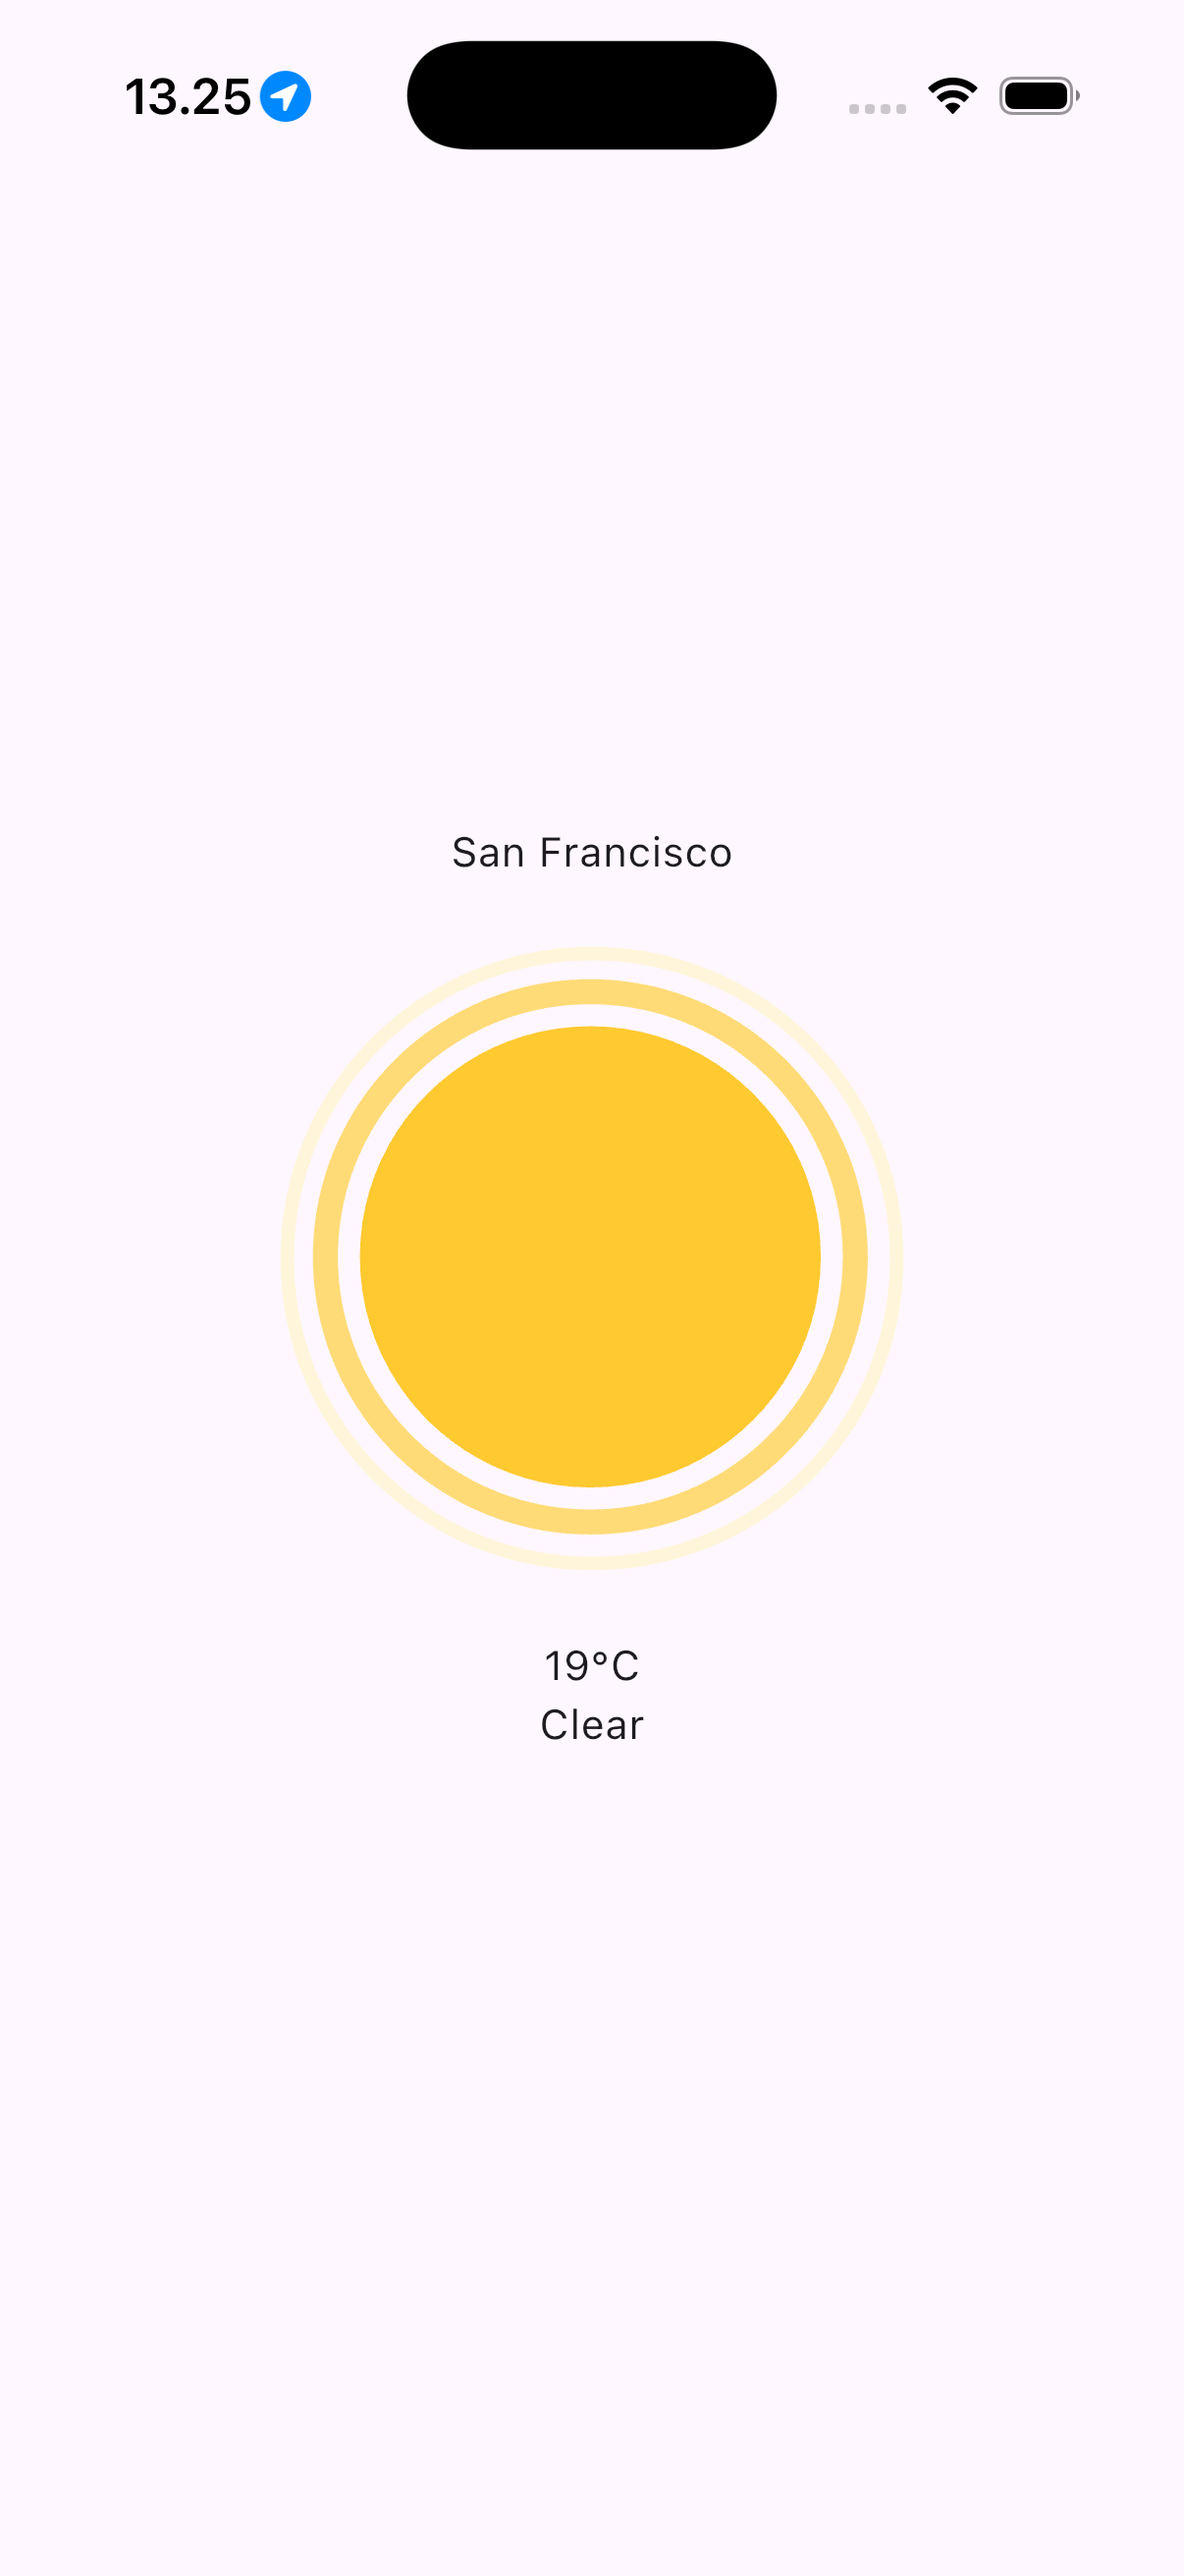
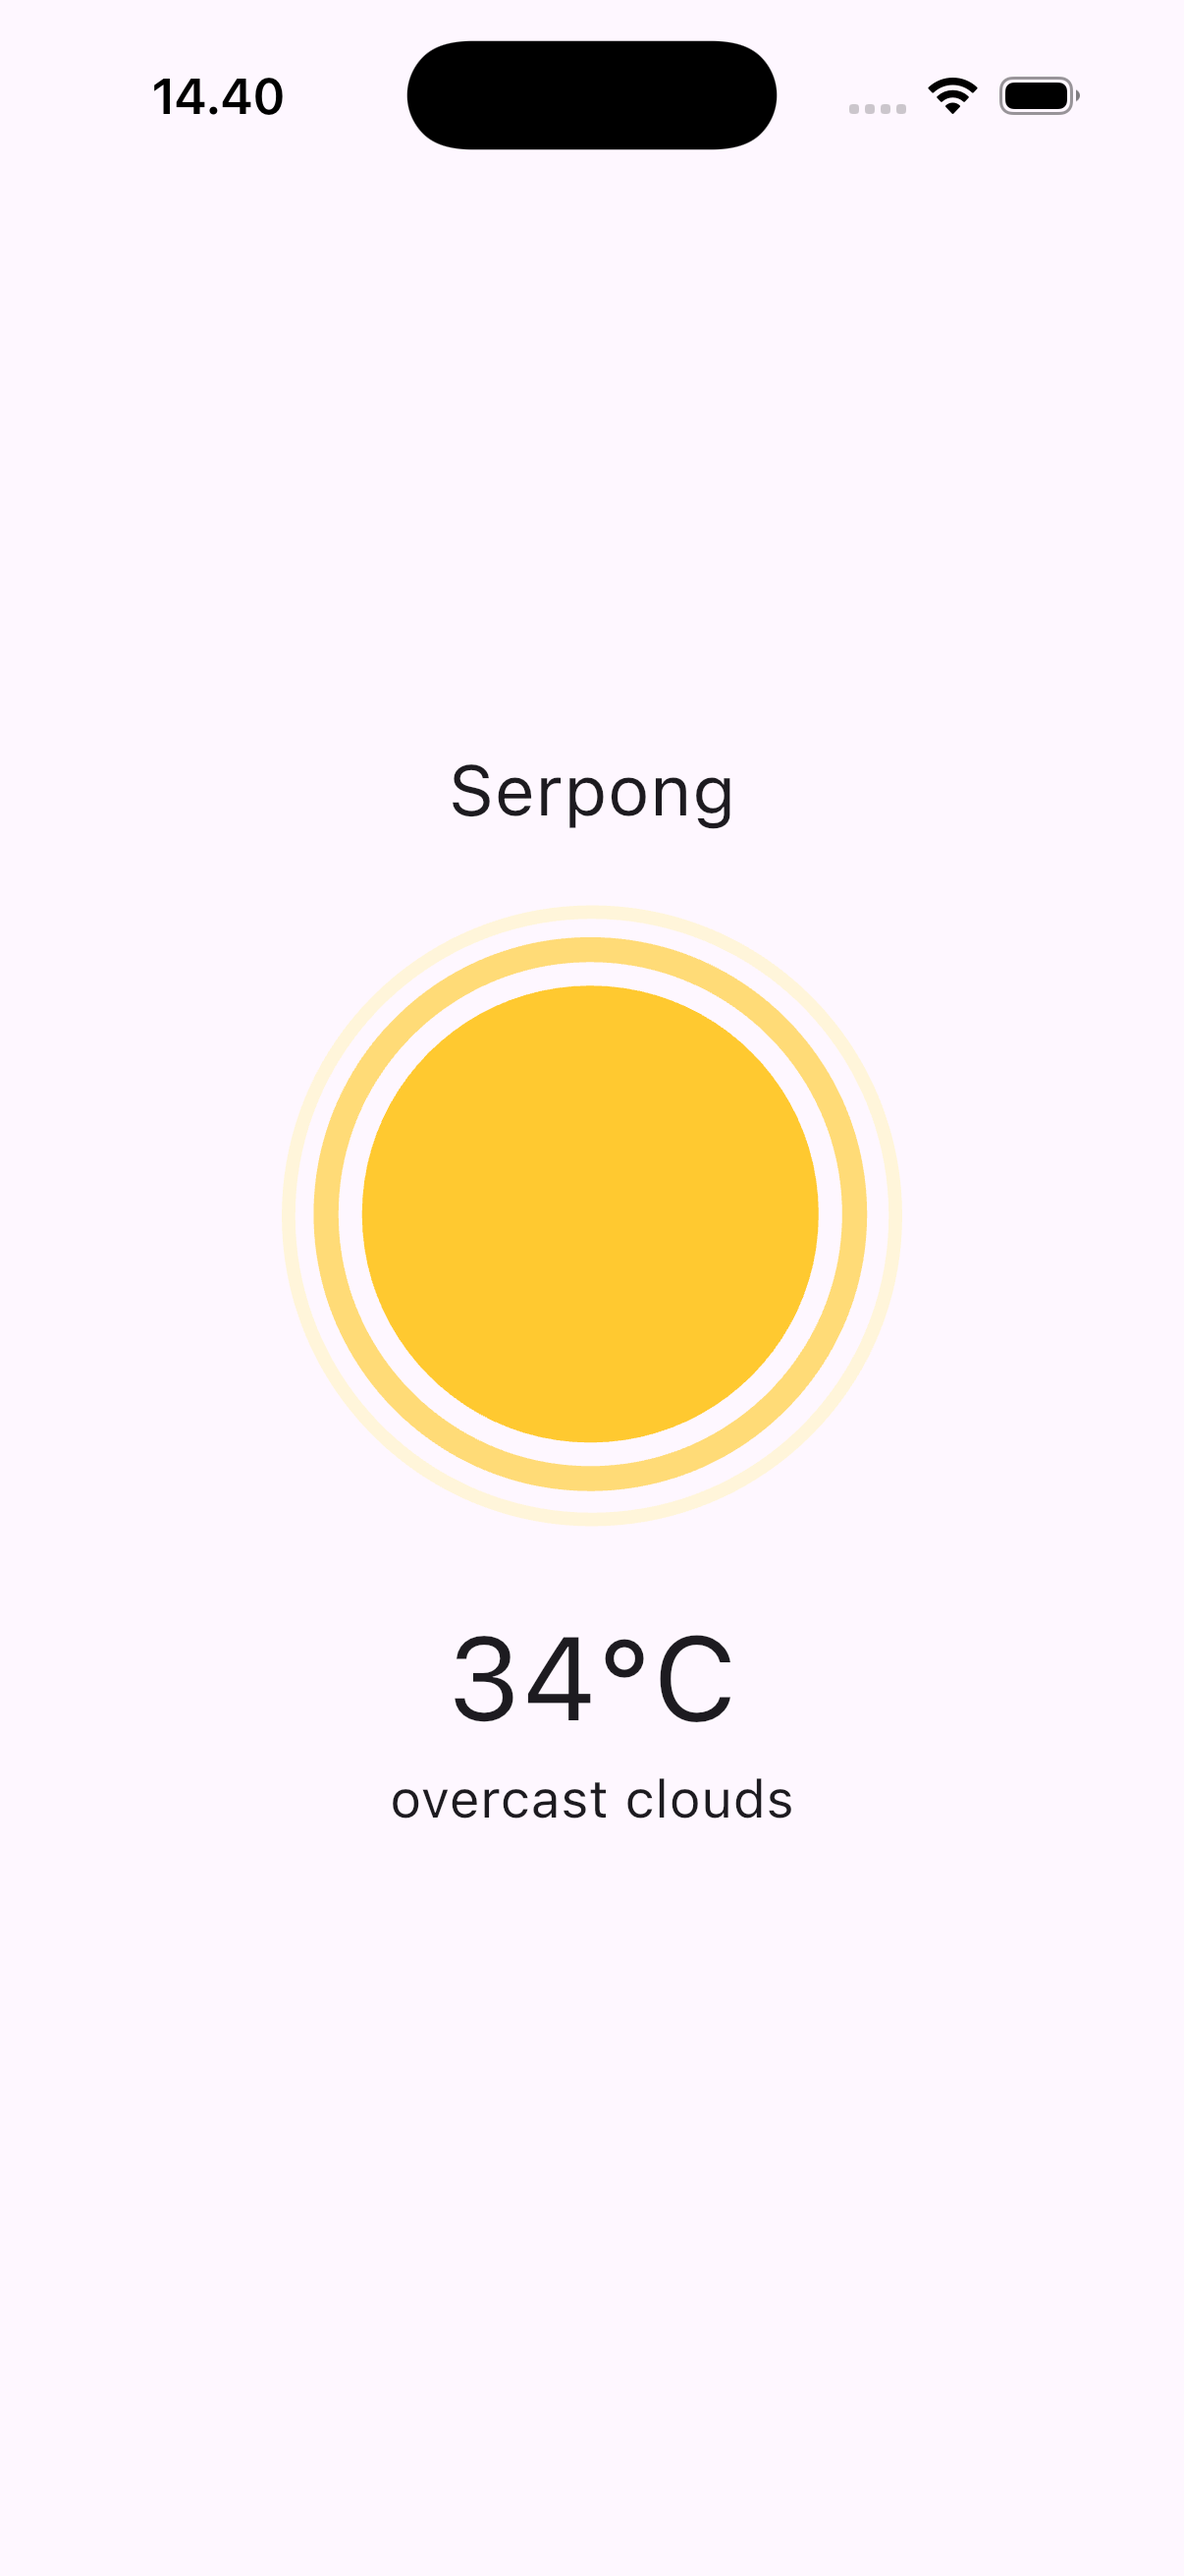
location fix completed

Changed region(s): [[0.2148, 0.278, 0.767, 0.7105], [0.092, 0.0309, 0.2761, 0.0618]]

diff --git a/lib/services/weather_service.dart b/lib/services/weather_service.dart
@@ -1,66 +1,152 @@
-// ignore_for_file: avoid_print, constant_identifier_names
+// ignore_for_file: avoid_print, deprecated_member_use
 
 import 'dart:convert';
-import 'package:geocoding/geocoding.dart';
-import 'package:geolocator/geolocator.dart';
-import '../models/weather_model.dart';
 import 'package:http/http.dart' as http;
+import 'package:geolocator/geolocator.dart';
+import 'package:geocoding/geocoding.dart';
+
+class Weather {
+  final String cityName;
+  final double temperature;
+  final String description;
+  final String icon;
+
+  Weather({
+    required this.cityName,
+    required this.temperature,
+    required this.description,
+    required this.icon,
+  });
+
+  factory Weather.fromJson(Map<String, dynamic> json) {
+    return Weather(
+      cityName: json['name'] ?? 'Unknown',
+      temperature: (json['main']['temp'] ?? 0).toDouble(),
+      description: json['weather']?[0]?['description'] ?? 'N/A',
+      icon: json['weather']?[0]?['icon'] ?? '',
+    );
+  }
+}
 
 class WeatherService {
-  static const BASE_URL = "https://api.openweathermap.org/data/2.5/weather";
+  static const String baseUrl =
+      'https://api.openweathermap.org/data/2.5/weather';
   final String apiKey;
 
   WeatherService(this.apiKey);
 
-  Future<Weather> getWeather(String cityName) async {
-    final response = await http.get(
-      Uri.parse('$BASE_URL?q=$cityName&appid=$apiKey&units=metric'),
-    );
-
-    if (response.statusCode == 200) {
-      return Weather.fromJSON(jsonDecode(response.body));
-    } else {
-      throw Exception('Failed to load weather data');
-    }
-  }
-
-  Future<String> getCurrentCity() async {
+  Future<Weather> getWeather() async {
     try {
-      // get permission from user
+      // make sure location permission is enabled
       LocationPermission permission = await Geolocator.checkPermission();
-      if (permission == LocationPermission.denied ||
-          permission == LocationPermission.deniedForever) {
+      if (permission == LocationPermission.denied) {
         permission = await Geolocator.requestPermission();
       }
 
-      // fetch the current location
+      if (permission == LocationPermission.deniedForever ||
+          permission == LocationPermission.denied) {
+        throw Exception('Location permissions are denied');
+      }
+
+      // get the user's location
       Position position = await Geolocator.getCurrentPosition(
-        locationSettings: LocationSettings(accuracy: LocationAccuracy.high),
+        desiredAccuracy: LocationAccuracy.high,
       );
 
-      print('Latitude: ${position.latitude}, Longitude: ${position.longitude}');
+      print('📍 DEBUG POSITION: ${position.latitude}, ${position.longitude}');
 
-      // convert the location into a list of placemark objects
+      // convert coordinates to a city name
       List<Placemark> placemarks = await placemarkFromCoordinates(
         position.latitude,
         position.longitude,
       );
 
-      // extract the city name from the first placemark
-      Placemark placemark = placemarks.first;
-      String? city = placemark.locality ?? placemark.subAdministrativeArea;
+      Placemark place = placemarks.first;
+      String city =
+          place.locality ??
+          place.subAdministrativeArea ??
+          place.administrativeArea ??
+          '';
 
-      print('Detected city: $city');
-
-      // If still null or empty, fallback ke nama daerah/kabupaten
-      if (city == null || city.isEmpty) {
-        city = placemark.administrativeArea;
+      if (city.isEmpty) {
+        throw Exception('City not found from coordinates');
       }
 
-      return city ?? "";
+      print('🏙 DEBUG CITY DETECTED: $city');
+
+      // call the weather API based on the city name
+      final url = Uri.parse('$baseUrl?q=$city&appid=$apiKey&units=metric');
+      final response = await http.get(url);
+
+      print('🌐 DEBUG RESPONSE STATUS: ${response.statusCode}');
+      print('🌐 DEBUG RESPONSE BODY: ${response.body}');
+
+      if (response.statusCode == 200) {
+        return Weather.fromJson(jsonDecode(response.body));
+      } else {
+        // fallback to coordinates directly if the city name fails
+        final coordUrl = Uri.parse(
+          '$baseUrl?lat=${position.latitude}&lon=${position.longitude}&appid=$apiKey&units=metric',
+        );
+        final coordResponse = await http.get(coordUrl);
+
+        if (coordResponse.statusCode == 200) {
+          return Weather.fromJson(jsonDecode(coordResponse.body));
+        } else {
+          throw Exception('Failed to load weather data');
+        }
+      }
     } catch (e) {
-      print('Error getting city: $e');
-      return "";
+      print('🔥 ERROR getWeather(): $e');
+      rethrow;
+    }
+  }
+
+  // added to match WeatherPage usage
+  Future<Weather> getWeatherByCity(String cityName) async {
+    try {
+      final url = Uri.parse('$baseUrl?q=$cityName&appid=$apiKey&units=metric');
+      final response = await http.get(url);
+
+      print('🌐 DEBUG REQUEST CITY: $cityName');
+      print('🌐 DEBUG RESPONSE STATUS: ${response.statusCode}');
+      print('🌐 DEBUG RESPONSE BODY: ${response.body}');
+
+      if (response.statusCode == 200) {
+        return Weather.fromJson(jsonDecode(response.body));
+      } else {
+        throw Exception('Failed to load weather data for $cityName');
+      }
+    } catch (e) {
+      print('🔥 ERROR getWeatherByCity(): $e');
+      rethrow;
+    }
+  }
+
+  // added for current city name
+  Future<String> getCurrentCity() async {
+    try {
+      Position position = await Geolocator.getCurrentPosition(
+        desiredAccuracy: LocationAccuracy.high,
+      );
+
+      List<Placemark> placemarks = await placemarkFromCoordinates(
+        position.latitude,
+        position.longitude,
+      );
+
+      Placemark place = placemarks.first;
+      String city =
+          place.locality ??
+          place.subAdministrativeArea ??
+          place.administrativeArea ??
+          '';
+
+      if (city.isEmpty) throw Exception('City not found');
+      return city;
+    } catch (e) {
+      print('🔥 ERROR getCurrentCity(): $e');
+      rethrow;
     }
   }
 }

diff --git a/lib/pages/weather_page.dart b/lib/pages/weather_page.dart
@@ -1,6 +1,5 @@
 import 'package:flutter/material.dart';
 import 'package:lottie/lottie.dart';
-import 'package:weatherapp_flutter/models/weather_model.dart';
 import 'package:weatherapp_flutter/services/weather_service.dart';
 
 class WeatherPage extends StatefulWidget {
@@ -17,12 +16,8 @@ class _WeatherPageState extends State<WeatherPage> {
 
   // fetch weather
   _fetchWeather() async {
-    // get the current city
-    String cityName = await _weatherService.getCurrentCity();
-
-    // get weather for city
     try {
-      final weather = await _weatherService.getWeather(cityName);
+      final weather = await _weatherService.getWeather();
       setState(() {
         _weather = weather;
       });
@@ -30,16 +25,16 @@ class _WeatherPageState extends State<WeatherPage> {
     // any errors
     catch (e) {
       // ignore: avoid_print
-      print(e);
+      print('Error fetching weather: $e');
     }
   }
 
   // weather animations
-  String getWeatherAnimation(String? mainCondition) {
-    if (mainCondition == null) return 'assets/sunny.json';
+  String getWeatherAnimation(String? description) {
+    if (description == null) return 'assets/sunny.json';
 
-    switch (mainCondition.toLowerCase()) {
-      case 'cloud':
+    switch (description.toLowerCase()) {
+      case 'clouds':
       case 'mist':
       case 'smoke':
       case 'haze':
@@ -50,7 +45,7 @@ class _WeatherPageState extends State<WeatherPage> {
       case 'drizzle':
       case 'shower rain':
         return 'assets/rain.json';
-      case 'thunderstrom':
+      case 'thunderstorm':
         return 'assets/thunder.json';
       case 'clear':
         return 'assets/sunny.json';
@@ -63,7 +58,6 @@ class _WeatherPageState extends State<WeatherPage> {
   @override
   void initState() {
     super.initState();
-
     // fetch weather on startup
     _fetchWeather();
   }
@@ -72,23 +66,33 @@ class _WeatherPageState extends State<WeatherPage> {
   Widget build(BuildContext context) {
     return Scaffold(
       body: Center(
-        child: Column(
-          mainAxisAlignment: MainAxisAlignment.center,
-          children: [
-            // city name
-            Text(_weather?.cityName ?? 'loading city..'),
+        child: _weather == null
+            ? const CircularProgressIndicator()
+            : Column(
+                mainAxisAlignment: MainAxisAlignment.center,
+                children: [
+                  // city name
+                  Text(
+                    _weather!.cityName,
+                    style: const TextStyle(fontSize: 24),
+                  ),
 
-            // animation
-            Lottie.asset(getWeatherAnimation(_weather?.mainCondition)),
+                  // animation
+                  Lottie.asset(getWeatherAnimation(_weather!.description)),
 
-            // temperature
-            Text('${_weather?.temperature.round()}°C'),
+                  // temperature
+                  Text(
+                    '${_weather!.temperature.round()}°C',
+                    style: const TextStyle(fontSize: 40),
+                  ),
 
-            // weather condition
-            Text(_weather?.mainCondition ?? ""),
-
-          ],
-        ),
+                  // weather condition
+                  Text(
+                    _weather!.description,
+                    style: const TextStyle(fontSize: 18),
+                  ),
+                ],
+              ),
       ),
     );
   }

diff --git a/lib/models/weather_model.dart b/lib/models/weather_model.dart
@@ -9,11 +9,13 @@ class Weather {
     required this.mainCondition,
   });
 
-  factory Weather.fromJSON(Map<String, dynamic> json) {
+  factory Weather.fromJson(Map<String, dynamic> json) {
     return Weather(
-      cityName: json['name'],
-      temperature: json['main']['temp'].toDouble(),
-      mainCondition: json['weather'][0]['main'],
+      cityName: json['name'] ?? 'Unknown',
+      temperature: (json['main']?['temp'] ?? 0).toDouble(),
+      mainCondition: json['weather'] != null && json['weather'].isNotEmpty
+          ? json['weather'][0]['main']
+          : 'Unknown',
     );
   }
 }

diff --git a/lib/main.dart b/lib/main.dart
@@ -10,7 +10,7 @@ class MyApp extends StatelessWidget {
 
   @override
   Widget build(BuildContext context) {
-    return MaterialApp(
+    return const MaterialApp(
       debugShowCheckedModeBanner: false,
       home: WeatherPage(),
     );
